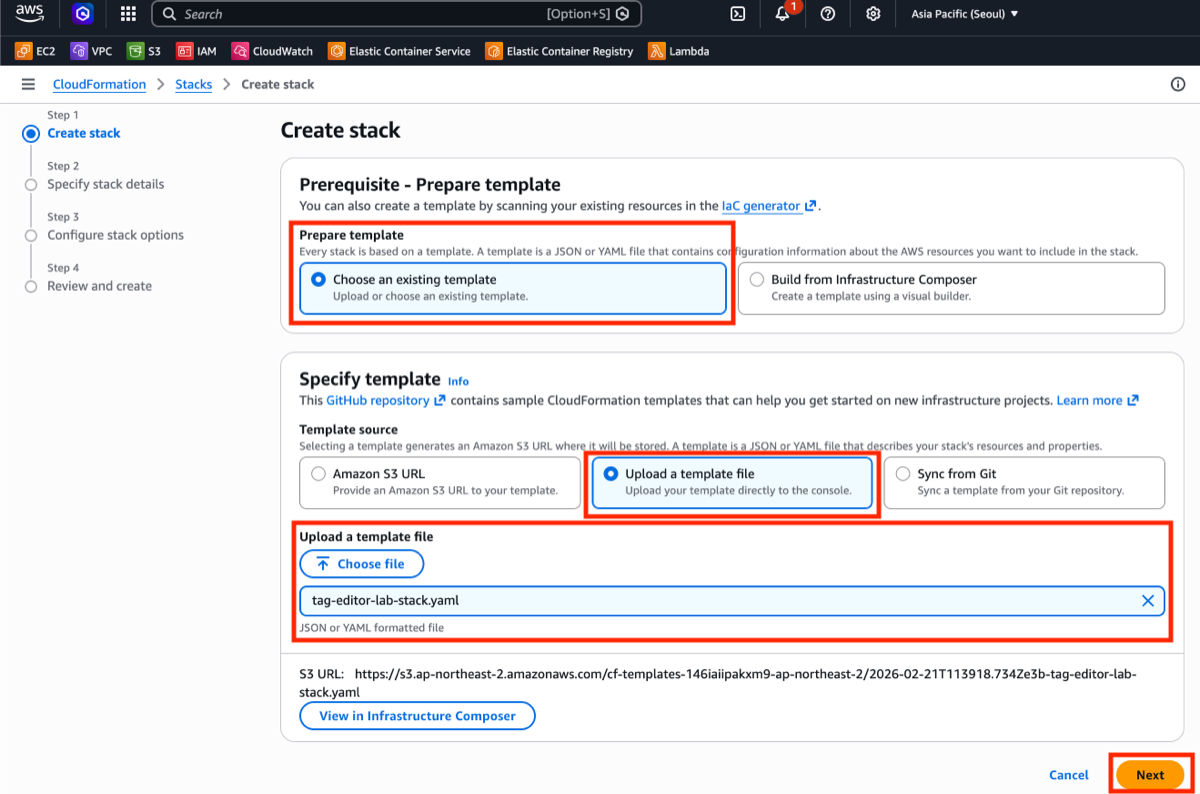
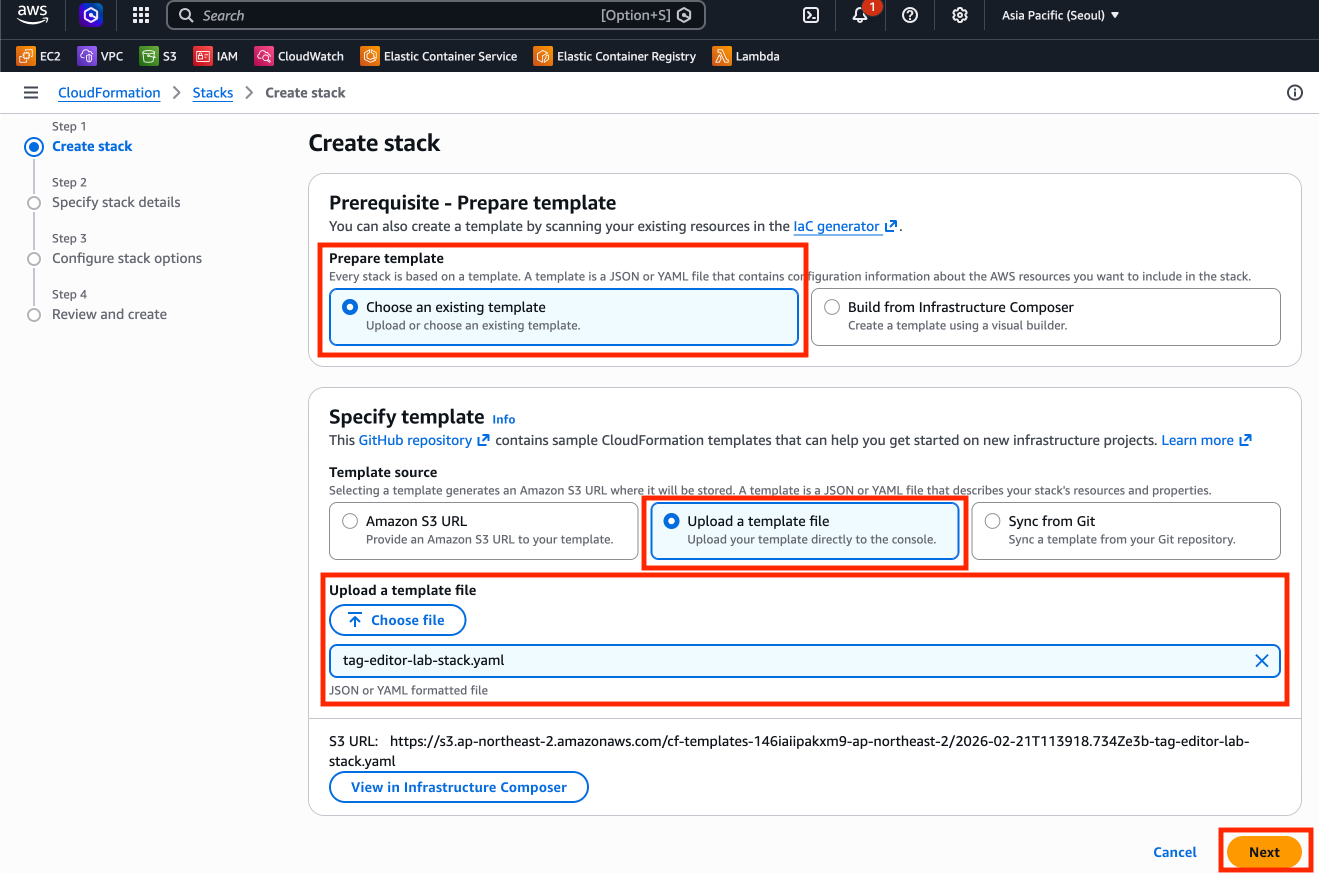
다차시 가이드 수정 (1-1, 1-2, 10-2, 10-3, 12-1, 12-3)
- 1-1: 이미지 교체 (8번, 15번, 17번)
- 1-2: Regions 섹션 AWS Regions 체크박스 체크 단계 추가
- 10-2: 66번 SSM Session Manager 탭명 변경, 95번 엔드포인트 포트 제거 안내 추가
- 10-3: 60번 버킷 이름 명시
- 12-1: 64번 대기 시간 2-3분 → 최대 5분 변경
- 12-3: 41번 Next 버튼 클릭 추가, 48번 이미지 삭제, 리소스 정리 API 연결 해제 단계 추가, 번호 수정

diff --git a/public/content/week12/12-3-waf-api-protection.md b/public/content/week12/12-3-waf-api-protection.md
@@ -71,14 +71,14 @@ AWS CloudFormation 스택은 다음 리소스를 생성합니다:
 3. AWS Management Console에 로그인한 후 상단 검색창에 `CloudFormation`을 입력하고 선택합니다.
 4. [[Create stack]] 드롭다운을 클릭한 후 **With new resources (standard)**를 선택합니다.
 
-    <img src="/images/week12/12-3-task0-step4-create-stack.png" alt="CloudFormation Create stack 드롭다운에서 With new resources (standard) 선택" class="guide-img-md" />
+<img src="/images/week12/12-3-task0-step4-create-stack.png" alt="CloudFormation Create stack 드롭다운에서 With new resources (standard) 선택" class="guide-img-md" />
 
 5. **Prepare template**에서 `Choose an existing template`를 선택합니다.
 6. **Specify template**에서 `Upload a template file`을 선택합니다.
 7. [[Choose file]] 버튼을 클릭한 후 `week12-3-waf-api-protection.yaml` 파일을 선택합니다.
 8. [[Next]] 버튼을 클릭합니다.
 
-    <img src="/images/week12/12-3-task0-step8-upload.png" alt="CloudFormation 템플릿 파일 업로드" class="guide-img-md" />
+<img src="/images/week12/12-3-task0-step8-upload.png" alt="CloudFormation 템플릿 파일 업로드" class="guide-img-md" />
 
 9. **Stack name**에 `week12-3-waf-api-protection-stack`을 입력합니다.
 10. **Parameters** 섹션에서 기본값을 확인합니다:
@@ -349,7 +349,7 @@ curl -s -X POST $API_URL/reservations \
 > **Recommended**와 **Essentials**는 사전 구성된 규칙 패키지입니다. 이 실습에서는 학습 목적으로 `You build it`을 선택하여 규칙을 직접 추가합니다.
 > `You build it`은 추가하는 규칙 수에 따라 예상 비용이 증가합니다. 실습은 짧은 시간만 사용하고 바로 삭제하므로 실제 청구 금액은 미미합니다.
 
-41. 오른쪽 **Add rules** 패널에서 `AWS-managed rule group`을 선택합니다.
+41. 오른쪽 **Add rules** 패널에서 `AWS-managed rule group`을 선택하고 [[Next]] 버튼을 클릭합니다.
 
     <img src="/images/week12/12-3-task2-step41-sqldatabase.png" alt="AWS-managed rule group 선택" class="guide-img-md" />
 
@@ -368,8 +368,6 @@ curl -s -X POST $API_URL/reservations \
 
 44. 다시 [[Add rule]] 버튼을 클릭합니다.
 
-    <img src="/images/week12/12-3-task2-step48-addrule.png" alt="Add rule 클릭" class="guide-img-sm" />
-
 45. `AWS-managed rule group`을 선택합니다.
 
     <img src="/images/week12/12-3-task2-rule-list.png" alt="AWS-managed rule group 목록" class="guide-img-sm" />
@@ -386,8 +384,6 @@ curl -s -X POST $API_URL/reservations \
 > **Core rule set (CRS)** (700 WCU)는 OWASP Top 10에 포함된 일반적인 웹 취약점을 방어합니다. XSS, 파일 포함(File Inclusion), 경로 탐색(Path Traversal) 등의 공격 패턴을 탐지합니다.
 
 48. 다시 [[Add rule]] 버튼을 클릭합니다.
-
-    <img src="/images/week12/12-3-task2-step48-addrule.png" alt="Add rule 클릭" class="guide-img-sm" />
 
 49. `AWS-managed rule group`을 선택합니다.
 
@@ -739,7 +735,7 @@ curl -s -X GET $API_URL/reservations | jq .
    - **Tag value**: `12-3`
 6. [[Search resources]] 버튼을 클릭합니다.
 
-    <img src="/images/week12/12-3-cleanup-step6-tageditor.png" alt="Tag Editor 검색 결과" class="guide-img-md" />
+<img src="/images/week12/12-3-cleanup-step6-tageditor.png" alt="Tag Editor 검색 결과" class="guide-img-md" />
 
 > [!NOTE]
 > Tag Editor는 리소스를 찾는 용도로만 사용됩니다. 실제 삭제는 다음 단계에서 수행합니다.
@@ -800,23 +796,28 @@ aws wafv2 delete-web-acl --name QuickTable-WAF-WebACL --scope REGIONAL --id $WEB
 10. 상단 검색창에 `WAF`를 입력하고 **WAF & Shield**를 선택합니다.
 11. 왼쪽 메뉴에서 **Protection packs (web ACLs)**를 선택합니다.
 12. `QuickTable-WAF-WebACL`을 선택합니다.
-13. [[Actions]] 드롭다운에서 **Delete protection pack (web ACL)**을 선택합니다.
+13. **Associated AWS resources** 탭을 선택하고, 연결된 API Gateway 리소스가 있으면 선택 후 [[Disassociate]] 버튼을 클릭하여 연결을 해제합니다.
+
+> [!NOTE]
+> Web ACL에 연결된 AWS 리소스가 있으면 삭제가 실패합니다. 반드시 연결을 먼저 해제해야 합니다.
+
+14. [[Actions]] 드롭다운에서 **Delete protection pack (web ACL)**을 선택합니다.
 
     <img src="/images/week12/12-3-cleanup-step13-actions.png" alt="Actions 드롭다운에서 Delete 선택" class="guide-img-md" />
 
-14. 확인 창에 `delete`를 입력하고 [[Delete]] 버튼을 클릭합니다.
+15. 확인 창에 `delete`를 입력하고 [[Delete]] 버튼을 클릭합니다.
 
     <img src="/images/week12/12-3-cleanup-step14-delete.png" alt="delete 입력 후 삭제" class="guide-img-sm" />
 
 ### 단계 3: AWS CloudFormation 스택 삭제
 
-15. 상단 검색창에 `CloudFormation`을 입력하고 선택합니다.
-16. `week12-3-waf-api-protection-stack` 스택을 선택합니다.
-17. [[Delete stack]] 버튼을 클릭합니다.
+16. 상단 검색창에 `CloudFormation`을 입력하고 선택합니다.
+17. `week12-3-waf-api-protection-stack` 스택을 선택합니다.
+18. [[Delete stack]] 버튼을 클릭합니다.
 
     <img src="/images/week12/12-3-cleanup-step17-delete-stack.png" alt="Delete stack 버튼" class="guide-img-md" />
 
-18. 확인 창에서 스택 이름 `week12-3-waf-api-protection-stack`을 입력하고 [[Delete stack]] 버튼을 클릭합니다.
+19. 확인 창에서 스택 이름 `week12-3-waf-api-protection-stack`을 입력하고 [[Delete stack]] 버튼을 클릭합니다.
 
     <img src="/images/week12/12-3-cleanup-step18-confirm.png" alt="스택 삭제 확인" class="guide-img-sm" />
 
@@ -825,17 +826,17 @@ aws wafv2 delete-web-acl --name QuickTable-WAF-WebACL --scope REGIONAL --id $WEB
 
 ### 단계 4: Amazon CloudWatch Log Group 삭제
 
-19. 상단 검색창에 `CloudWatch`를 입력하고 선택합니다.
-20. 왼쪽 메뉴에서 **Logs** > **Log Management**를 선택합니다.
-21. 검색창에 `Week12-3`을 입력합니다.
-22. 다음 로그 그룹의 체크박스를 선택합니다:
+20. 상단 검색창에 `CloudWatch`를 입력하고 선택합니다.
+21. 왼쪽 메뉴에서 **Logs** > **Log Management**를 선택합니다.
+22. 검색창에 `Week12-3`을 입력합니다.
+23. 다음 로그 그룹의 체크박스를 선택합니다:
     - `/aws/lambda/Week12-3-CreateReservation`
     - `/aws/lambda/Week12-3-GetReservations`
-23. **Actions** > `Delete log group(s)`를 선택합니다.
+24. **Actions** > `Delete log group(s)`를 선택합니다.
 
     <img src="/images/week12/12-3-cleanup-step23-loggroup.png" alt="Delete log group 선택" class="guide-img-md" />
 
-24. 확인 창에서 [[Delete]] 버튼을 클릭합니다.
+25. 확인 창에서 [[Delete]] 버튼을 클릭합니다.
 
     <img src="/images/week12/12-3-cleanup-step24-delete.png" alt="Delete 확인" class="guide-img-sm" />
 
@@ -864,14 +865,14 @@ aws wafv2 delete-web-acl --name QuickTable-WAF-WebACL --scope REGIONAL --id $WEB
 
 모든 리소스가 정상적으로 삭제되었는지 Tag Editor로 최종 확인합니다.
 
-25. AWS Management Console에서 `Resource Groups & Tag Editor`로 이동합니다.
-26. 왼쪽 메뉴에서 **Tag Editor**를 선택합니다.
-27. **Regions**에서 `ap-northeast-2`를 선택합니다.
-28. **Resource types**에서 `All supported resource types`를 선택합니다.
-29. **Tags** 섹션에서 다음을 입력합니다:
+26. AWS Management Console에서 `Resource Groups & Tag Editor`로 이동합니다.
+27. 왼쪽 메뉴에서 **Tag Editor**를 선택합니다.
+28. **Regions**에서 `ap-northeast-2`를 선택합니다.
+29. **Resource types**에서 `All supported resource types`를 선택합니다.
+30. **Tags** 섹션에서 다음을 입력합니다:
     - **Tag key**: `Week`
     - **Tag value**: `12-3`
-30. [[Search resources]] 버튼을 클릭합니다.
+31. [[Search resources]] 버튼을 클릭합니다.
 
     <img src="/images/week12/12-3-cleanup-step30-tageditor.png" alt="Tag Editor 최종 확인" class="guide-img-md" />
 

diff --git a/public/content/week12/12-1-credentials-management.md b/public/content/week12/12-1-credentials-management.md
@@ -74,14 +74,14 @@ AWS CloudFormation 스택은 다음 리소스를 생성합니다:
 3. AWS Management Console에 로그인한 후 상단 검색창에 `CloudFormation`을 입력하고 선택합니다.
 4. [[Create stack]] 드롭다운을 클릭한 후 **With new resources (standard)**를 선택합니다.
 
-    <img src="/images/week12/12-1-task0-step4-create-stack.png" alt="CloudFormation Create stack 드롭다운에서 With new resources (standard) 선택" class="guide-img-md" />
+<img src="/images/week12/12-1-task0-step4-create-stack.png" alt="CloudFormation Create stack 드롭다운에서 With new resources (standard) 선택" class="guide-img-md" />
 
 5. **Prepare template**에서 `Choose an existing template`를 선택합니다.
 6. **Specify template**에서 `Upload a template file`을 선택합니다.
 7. [[Choose file]] 버튼을 클릭한 후 `week12-1-secrets-manager-lab.yaml` 파일을 선택합니다.
 8. [[Next]] 버튼을 클릭합니다.
 
-    <img src="/images/week12/12-1-task0-step8-upload.png" alt="CloudFormation 템플릿 파일 업로드" class="guide-img-md" />
+<img src="/images/week12/12-1-task0-step8-upload.png" alt="CloudFormation 템플릿 파일 업로드" class="guide-img-md" />
 
 9. **Stack name**에 `week12-1-secrets-lab-stack`을 입력합니다.
 10. **Parameters** 섹션에서 기본값을 확인합니다:
@@ -337,7 +337,7 @@ AWS CloudFormation 스택은 다음 리소스를 생성합니다:
 > 8. **Rotation strategy**에서 `Single user`를 선택합니다.
 > 9. [[Save]] 버튼을 클릭합니다.
 
-64. **Last rotated date**에 값이 표시되는지 확인합니다. 2-3분 소요될 수 있으므로 페이지를 새로고침하며 기다립니다.
+64. **Last rotated date**에 값이 표시되는지 확인합니다. 최대 5분 소요될 수 있으므로 페이지를 새로고침하며 기다립니다.
 
     <img src="/images/week12/12-1-task3-step64-lastrotated.png" alt="Secrets Manager Last rotated date" class="guide-img-md" />
 
@@ -620,7 +620,7 @@ mysql://admin:password@{DBEndpoint}:3306/mydb
    - **Tag value**: `12-1`
 6. [[Search resources]] 버튼을 클릭합니다.
 
-    <img src="/images/week12/12-1-cleanup-step6-tageditor.png" alt="Tag Editor 검색 결과" class="guide-img-md" />
+<img src="/images/week12/12-1-cleanup-step6-tageditor.png" alt="Tag Editor 검색 결과" class="guide-img-md" />
 
 > [!NOTE]
 > Tag Editor는 리소스를 찾는 용도로만 사용됩니다. 실제 삭제는 다음 단계에서 수행합니다.
@@ -636,7 +636,7 @@ mysql://admin:password@{DBEndpoint}:3306/mydb
 
 7. AWS CloudShell에서 AWS Secrets Manager 시크릿을 즉시 삭제합니다:
 
-    <img src="/images/week12/12-1-cleanup-step7-secrets.png" alt="Secrets Manager 시크릿 삭제" class="guide-img-md" />
+<img src="/images/week12/12-1-cleanup-step7-secrets.png" alt="Secrets Manager 시크릿 삭제" class="guide-img-md" />
 
 ```bash
 aws secretsmanager delete-secret --secret-id prod/db/mysql/credentials --force-delete-without-recovery --region ap-northeast-2
@@ -652,7 +652,7 @@ aws secretsmanager delete-secret --secret-id prod/db/mysql/credentials --force-d
 
 8. AWS Systems Manager Parameter Store 파라미터를 삭제합니다:
 
-    <img src="/images/week12/12-1-cleanup-step8-secrets-delete.png" alt="Parameter Store 파라미터 삭제" class="guide-img-md" />
+<img src="/images/week12/12-1-cleanup-step8-secrets-delete.png" alt="Parameter Store 파라미터 삭제" class="guide-img-md" />
 
 ```bash
 aws ssm delete-parameter --name /prod/app/config/db-connection-string --region ap-northeast-2
@@ -667,7 +667,7 @@ aws ssm delete-parameter --name /prod/app/config/db-connection-string --region a
 
 9. AWS KMS 키 삭제를 예약합니다:
 
-    <img src="/images/week12/12-1-cleanup-step9-ssm.png" alt="KMS 키 삭제 예약" class="guide-img-md" />
+<img src="/images/week12/12-1-cleanup-step9-ssm.png" alt="KMS 키 삭제 예약" class="guide-img-md" />
 
 ```bash
 KEY_ID=$(aws kms list-aliases --query "Aliases[?AliasName=='alias/secrets-encryption-key'].TargetKeyId | [0]" --output text --region ap-northeast-2)

diff --git a/public/content/week10/10-2-elasticache-caching.md b/public/content/week10/10-2-elasticache-caching.md
@@ -62,14 +62,14 @@ AWS CloudFormation 스택은 다음 리소스를 생성합니다:
 1. AWS Management Console에 로그인한 후 상단 검색창에 `CloudFormation`을 입력하고 선택합니다.
 2. [[Create stack]] 드롭다운을 클릭한 후 **With new resources (standard)**를 선택합니다.
 
-    <img src="/images/week10/10-2-task0-step4-create-stack.png" alt="CloudFormation Create stack 드롭다운에서 With new resources (standard) 선택" class="guide-img-md" />
+<img src="/images/week10/10-2-task0-step4-create-stack.png" alt="CloudFormation Create stack 드롭다운에서 With new resources (standard) 선택" class="guide-img-md" />
 
 3. **Prerequisite - Prepare template**에서 `Choose an existing template`를 선택합니다.
 4. **Specify template**에서 `Upload a template file`을 선택합니다.
 5. [[Choose file]] 버튼을 클릭한 후 다운로드한 `week10-2-elasticache-lab.yaml` 파일을 선택합니다.
 6. [[Next]] 버튼을 클릭합니다.
 
-    <img src="/images/week10/10-2-task0-step6-upload.png" alt="CloudFormation 템플릿 업로드" class="guide-img-md" />
+<img src="/images/week10/10-2-task0-step6-upload.png" alt="CloudFormation 템플릿 업로드" class="guide-img-md" />
 
 7. **Stack name**에 `week10-2-quicktable-cache-stack`을 입력합니다.
 8. **Parameters** 섹션에서 기본값을 확인합니다:
@@ -80,7 +80,7 @@ AWS CloudFormation 스택은 다음 리소스를 생성합니다:
    - **WeekTag**: `10-2`
 9. [[Next]] 버튼을 클릭합니다.
 
-    <img src="/images/week10/10-2-task0-step9-parameters.png" alt="CloudFormation Parameters 설정" class="guide-img-md" />
+<img src="/images/week10/10-2-task0-step9-parameters.png" alt="CloudFormation Parameters 설정" class="guide-img-md" />
 
 10. **Configure stack options** 페이지가 열립니다.
 
@@ -354,7 +354,7 @@ Valkey CLI를 사용하여 기본 명령어를 실습하고 캐싱 동작을 이
 
     <img src="/images/week10/10-2-task3-step65-ssm-connect.png" alt="EC2 Connect 버튼" class="guide-img-md" />
 
-66. **Session Manager** 탭을 선택합니다.
+66. **SSM Session Manager** 탭을 선택합니다.
 67. [[Connect]] 버튼을 클릭합니다.
 
     <img src="/images/week10/10-2-task3-step67-ssm-session.png" alt="Session Manager Connect" class="guide-img-md" />
@@ -683,6 +683,9 @@ export AWS_DEFAULT_REGION=ap-northeast-2
 
 > [!NOTE]
 > `<Primary-Endpoint>`를 태스크 2에서 복사한 엔드포인트로 대체합니다.
+> **주의**: 복사한 엔드포인트에 포트 번호(`:6379`)가 포함되어 있을 수 있습니다. `REDIS_HOST`에는 호스트명만 입력해야 하므로 `:6379` 부분은 제거합니다.
+> (예: `xxx.cache.amazonaws.com:6379` → `xxx.cache.amazonaws.com`)
+>
 > 환경 변수명이 `REDIS_HOST`인 이유는 Valkey가 Redis OSS와 호환되어 기존 Redis 클라이언트 라이브러리를 그대로 사용하기 때문입니다.
 >
 > 설정한 환경 변수를 확인하려면 다음 명령어를 실행합니다:
@@ -895,7 +898,7 @@ python3 benchmark.py
    - **Tag value**: `10-2`
 6. [[Search resources]] 버튼을 클릭합니다.
 
-    <img src="/images/week10/10-2-cleanup-step6-tageditor.png" alt="Tag Editor 검색 결과" class="guide-img-md" />
+<img src="/images/week10/10-2-cleanup-step6-tageditor.png" alt="Tag Editor 검색 결과" class="guide-img-md" />
 
 > [!NOTE]
 > Tag Editor는 리소스를 찾는 용도로만 사용됩니다. 실제 삭제는 다음 단계에서 수행합니다.

diff --git a/public/content/week10/10-3-cloudfront-demo.md b/public/content/week10/10-3-cloudfront-demo.md
@@ -47,7 +47,7 @@ QuickTable은 전 세계 사용자가 레스토랑을 검색하고 예약할 수
 3. 상단 검색창에 `S3`을 입력하고 선택한 후 왼쪽 메뉴에서 **General purpose buckets**를 선택합니다.
 4. [[Create bucket]] 버튼을 클릭합니다.
 
-    <img src="/images/week10/10-3-task0-step4-s3-bucket.png" alt="S3 Create bucket" class="guide-img-md" />
+<img src="/images/week10/10-3-task0-step4-s3-bucket.png" alt="S3 Create bucket" class="guide-img-md" />
 
 5. **General configuration** 섹션에서 **AWS Region**이 `Asia Pacific (Seoul) ap-northeast-2`로 설정되어 있는지 확인합니다.
 6. **Bucket namespace**에서 `Global namespace`가 선택되어 있는지 확인합니다.
@@ -62,7 +62,7 @@ QuickTable은 전 세계 사용자가 레스토랑을 검색하고 예약할 수
 
 7. **Bucket name**에 `quicktable-cloudfront-origin-{Initials}-{StudentId}`를 입력합니다.
 
-    <img src="/images/week10/10-3-task0-step7-bucket-name.png" alt="Bucket name 입력" class="guide-img-md" />
+<img src="/images/week10/10-3-task0-step7-bucket-name.png" alt="Bucket name 입력" class="guide-img-md" />
 
 > [!TIP]
 > `{Initials}`를 본인의 이니셜로, `{StudentId}`를 본인의 학번으로 변경합니다 (예: `quicktable-cloudfront-origin-jdoe-20240001`).
@@ -70,7 +70,7 @@ QuickTable은 전 세계 사용자가 레스토랑을 검색하고 예약할 수
 
 8. **Block Public Access settings**는 모두 체크된 상태로 유지합니다.
 
-    <img src="/images/week10/10-3-task0-step8-block-public.png" alt="Block Public Access 설정 유지" class="guide-img-md" />
+<img src="/images/week10/10-3-task0-step8-block-public.png" alt="Block Public Access 설정 유지" class="guide-img-md" />
 
 > [!CONCEPT] Amazon S3 퍼블릭 액세스 차단 (S3 Block Public Access)
 > Amazon CloudFront는 OAC(Origin Access Control)를 통해 비공개 Amazon S3 버킷에 접근합니다.
@@ -335,7 +335,7 @@ QuickTable은 전 세계 사용자가 레스토랑을 검색하고 예약할 수
 57. 텍스트 에디터에서 `index.html` 파일을 엽니다.
 58. `<p class="version">Version: 1.0</p>` 부분을 `<p class="version">Version: 2.0</p>`으로 변경합니다.
 59. 파일을 저장합니다.
-60. Amazon S3 콘솔에서 버킷을 선택합니다.
+60. Amazon S3 콘솔에서 태스크 1에서 생성한 오리진 버킷(`quicktable-cloudfront-origin-{Initials}-{StudentId}`)을 선택합니다.
 61. [[Upload]] 버튼을 클릭합니다.
 62. 수정한 `index.html` 파일을 선택합니다.
 
@@ -610,7 +610,7 @@ Week 9-3에서 구축한 QuickTable 정적 웹사이트가 이제 Amazon CloudFr
    - **Tag value**: `10-3`
 6. [[Search resources]] 버튼을 클릭합니다.
 
-    <img src="/images/week10/10-3-cleanup-step6-disable-distribution.png" alt="Tag Editor 리소스 검색 결과" class="guide-img-md" />
+<img src="/images/week10/10-3-cleanup-step6-disable-distribution.png" alt="Tag Editor 리소스 검색 결과" class="guide-img-md" />
 
 > [!OUTPUT]
 > Amazon S3 버킷이 표시됩니다.
